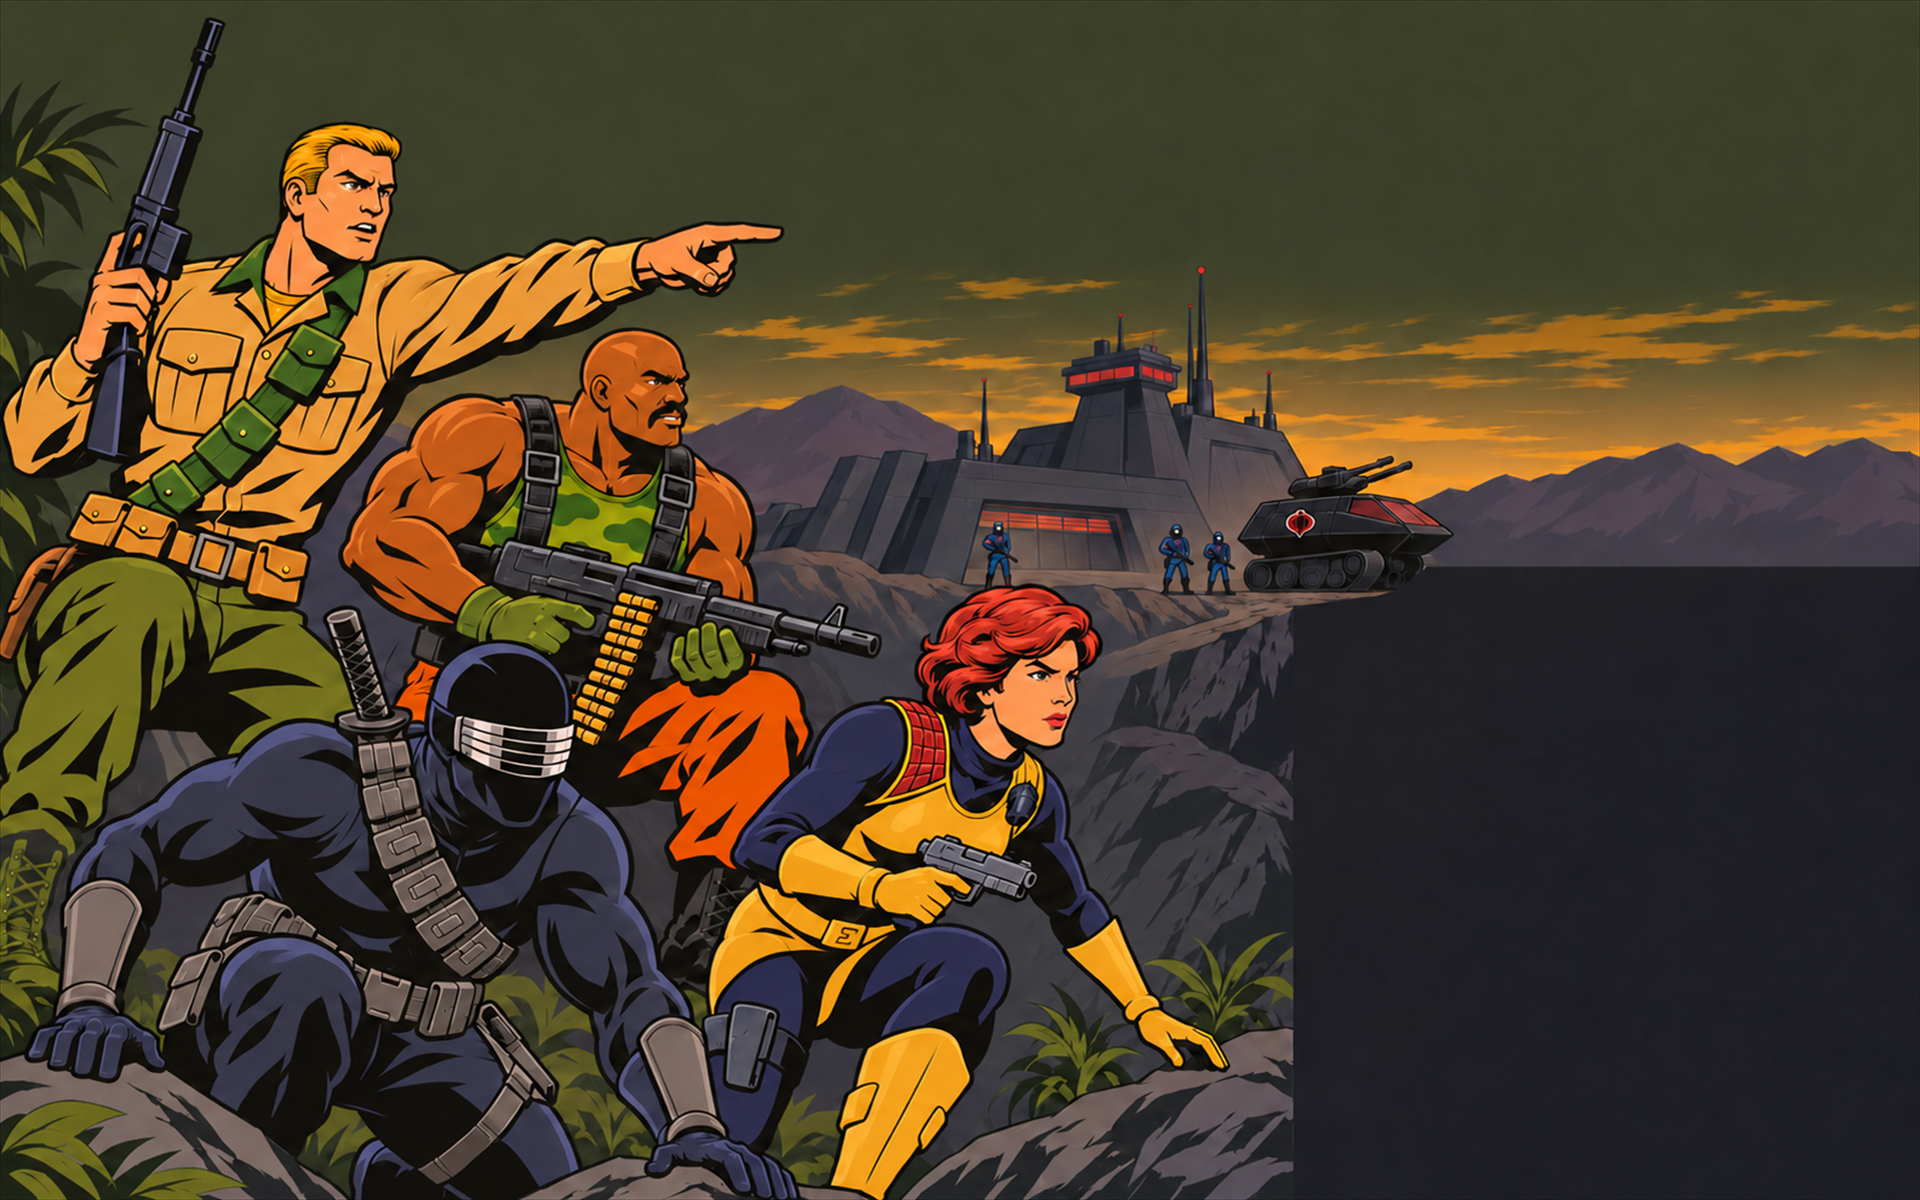
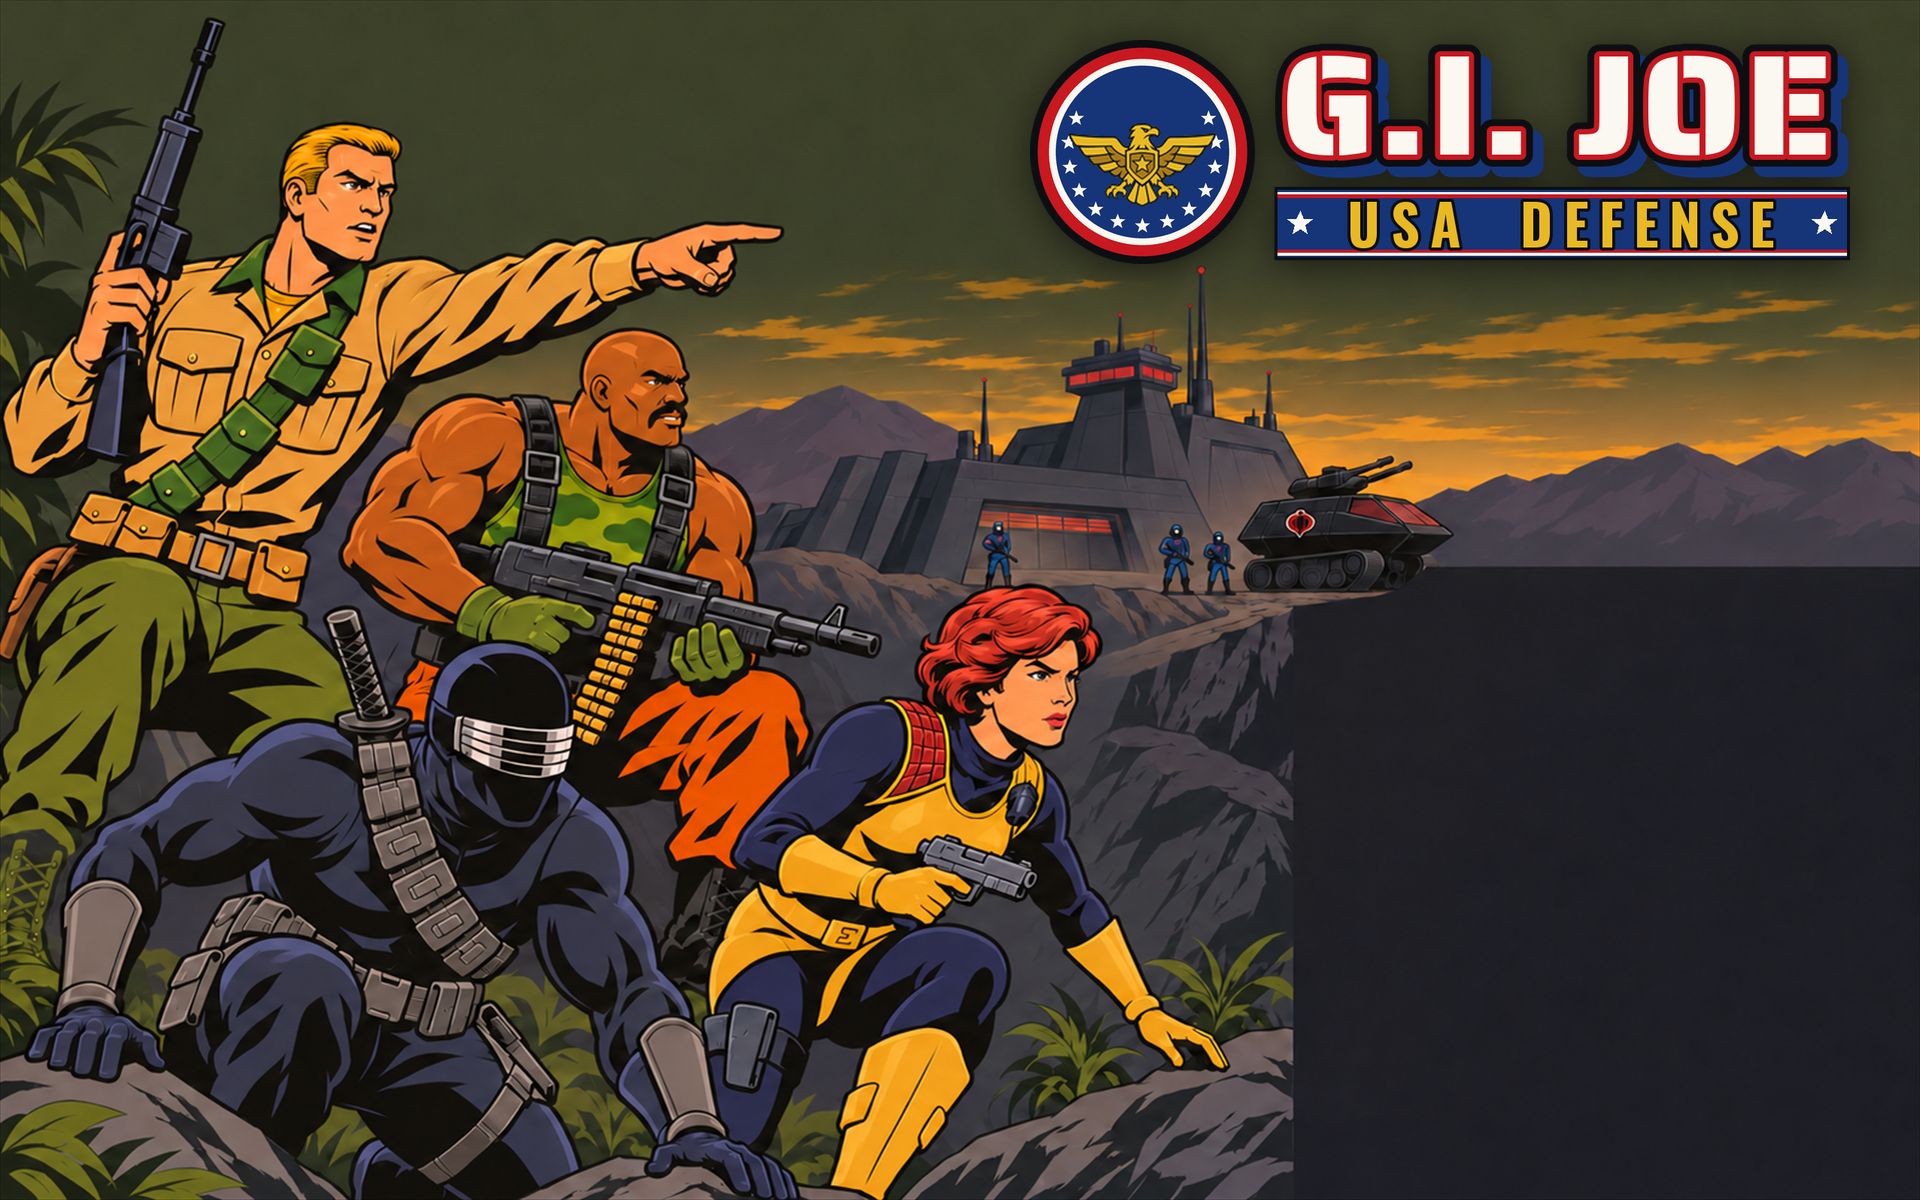
Title: G.I. Joe: USA Defense. Wordmark + eagle badge on the menu art, no OpenXcom anywhere on screen (window title, menu, loading, pause, error box, options strings); theme starts with the studio card
Claude-Session: https://claude.ai/code/session_014dExcDxPaqvFqz4pbppVVZ

Changed region(s): [[0.5312, 0.0308, 0.9688, 0.2158]]

diff --git a/tools/oxce-4x/build/make_title.py b/tools/oxce-4x/build/make_title.py
@@ -1,0 +1,157 @@
+#!/usr/bin/env python3
+"""The game's title on the menu key art: G.I. JOE / USA DEFENSE with the eagle badge.
+
+    python3 build/make_title.py
+
+Reads mod/Resources/FrontEnd/title_base_hi.png (the key art with no title; made from
+title_hi.png the first time this runs), the eagle from art_briefs/returned/ui_remaining,
+and the two fonts in fonts/. Writes title_hi.png (the full-colour art the menu draws)
+and title.png (its 8-bit twin), and title_word.png (the wordmark alone, for other screens).
+John, 13 Nov 2026: the game is "G.I. Joe: USA Defense"; a cleaner, more awesome title,
+with the G.I. Joe badging.
+"""
+import os
+import sys
+import numpy as np
+from PIL import Image, ImageDraw, ImageFont, ImageFilter
+
+HERE = os.path.dirname(os.path.abspath(__file__))
+ROOT = os.path.normpath(os.path.join(HERE, '..'))
+FE = os.path.join(ROOT, 'mod', 'Resources', 'FrontEnd')
+STENCIL = os.path.join(ROOT, 'fonts', 'SairaStencilOne-Regular.ttf')
+OSWALD = os.path.join(ROOT, 'fonts', 'Oswald[wght].ttf')
+EAGLE = os.path.join(ROOT, 'art_briefs', 'returned', 'ui_remaining', '07_battle_buttons', 'icon_special.png')
+
+RED, BLUE, WHITE, GOLD, INK = (200, 24, 32), (22, 52, 120), (250, 248, 240), (232, 185, 35), (12, 14, 18)
+
+
+def text_layer(size, text, font, fill, stroke, stroke_fill, spacing=0):
+    img = Image.new('RGBA', size, (0, 0, 0, 0))
+    d = ImageDraw.Draw(img)
+    x = 0
+    for ch in text:
+        d.text((x + stroke, stroke), ch, font=font, fill=fill, stroke_width=stroke, stroke_fill=stroke_fill)
+        x += font.getlength(ch) + spacing
+    return img.crop(img.getbbox())
+
+
+def eagle_badge(h):
+    """The eagle cut off its olive button face, set on a navy roundel with a red and white rim."""
+    e = Image.open(EAGLE).convert('RGB')
+    a = np.asarray(e).astype(int)
+    bg = np.array([74, 86, 64])
+    dist = np.abs(a - bg).sum(axis=2)
+    alpha = np.clip((dist - 30) * 6, 0, 255).astype(np.uint8)
+    eagle = Image.fromarray(np.dstack([a.astype(np.uint8), alpha]), 'RGBA')
+    eagle = eagle.crop(eagle.getbbox())
+    s = h * 4  # draw large, then shrink, for clean edges
+    b = Image.new('RGBA', (s, s), (0, 0, 0, 0))
+    d = ImageDraw.Draw(b)
+    d.ellipse((0, 0, s - 1, s - 1), fill=INK)
+    r = s * 0.035
+    d.ellipse((r, r, s - r, s - r), fill=RED)
+    r2 = s * 0.085
+    d.ellipse((r2, r2, s - r2, s - r2), fill=WHITE)
+    r3 = s * 0.115
+    d.ellipse((r3, r3, s - r3, s - r3), fill=BLUE)
+    # stars round the rim of the blue
+    import math
+    for i in range(13):
+        ang = math.pi * (0.85 + 1.3 * i / 12)
+        cx = s / 2 + math.cos(ang) * s * 0.33
+        cy = s / 2 - math.sin(ang) * s * 0.33
+        star(d, cx, cy, s * 0.035, WHITE)
+    ew = int(s * 0.66)
+    eh = int(eagle.height * ew / eagle.width)
+    eg = eagle.resize((ew, eh), Image.LANCZOS)
+    b.alpha_composite(eg, ((s - ew) // 2, int(s * 0.56 - eh / 2)))
+    return b.resize((h, h), Image.LANCZOS)
+
+
+def star(d, cx, cy, r, fill):
+    import math
+    pts = []
+    for i in range(10):
+        rr = r if i % 2 == 0 else r * 0.42
+        ang = math.pi / 2 + i * math.pi / 5
+        pts.append((cx + math.cos(ang) * rr, cy - math.sin(ang) * rr))
+    d.polygon(pts, fill=fill)
+
+
+def wordmark():
+    big = ImageFont.truetype(STENCIL, 190)
+    sub = ImageFont.truetype(OSWALD, 74)
+    try:
+        sub.set_variation_by_axes([700])
+    except Exception:
+        pass
+    # G.I. JOE: white, red keyline, black outer line, and a navy drop
+    core = text_layer((1400, 300), 'G.I. JOE', big, WHITE, 7, RED, spacing=6)
+    outer = text_layer((1400, 320), 'G.I. JOE', big, INK, 16, INK, spacing=6)
+    jw, jh = outer.size
+    joe = Image.new('RGBA', (jw + 16, jh + 16), (0, 0, 0, 0))
+    shadow = Image.new('RGBA', outer.size, BLUE + (255,))
+    shadow.putalpha(outer.getchannel('A'))
+    joe.alpha_composite(shadow, (14, 14))
+    joe.alpha_composite(outer, (0, 0))
+    joe.alpha_composite(core, ((jw - core.width) // 2, (jh - core.height) // 2))
+
+    # USA DEFENSE: gold, letter-spaced, on a red-white-blue stripe bar with stars
+    words = text_layer((1400, 160), 'USA  DEFENSE', sub, GOLD, 4, INK, spacing=14)
+    bar_w = joe.width
+    bar_h = words.height + 28
+    bar = Image.new('RGBA', (bar_w, bar_h), (0, 0, 0, 0))
+    d = ImageDraw.Draw(bar)
+    d.rectangle((0, 0, bar_w - 1, bar_h - 1), fill=INK)
+    d.rectangle((4, 4, bar_w - 5, bar_h - 5), fill=BLUE)
+    d.rectangle((4, bar_h - 14, bar_w - 5, bar_h - 10), fill=RED)
+    d.rectangle((4, bar_h - 10, bar_w - 5, bar_h - 7), fill=WHITE)
+    d.rectangle((4, 7, bar_w - 5, 10), fill=WHITE)
+    d.rectangle((4, 10, bar_w - 5, 14), fill=RED)
+    for x in (34, bar_w - 34):
+        star(d, x, bar_h / 2, 17, WHITE)
+    bar.alpha_composite(words, ((bar_w - words.width) // 2, (bar_h - words.height) // 2 + 2))
+
+    gap = 10
+    text = Image.new('RGBA', (joe.width, joe.height + gap + bar.height), (0, 0, 0, 0))
+    text.alpha_composite(joe, (0, 0))
+    text.alpha_composite(bar, (0, joe.height + gap))
+
+    badge = eagle_badge(text.height + 10)
+    out = Image.new('RGBA', (badge.width + 26 + text.width, max(badge.height, text.height)), (0, 0, 0, 0))
+    out.alpha_composite(badge, (0, (out.height - badge.height) // 2))
+    out.alpha_composite(text, (badge.width + 26, (out.height - text.height) // 2))
+    return out
+
+
+def main():
+    base = os.path.join(FE, 'title_base_hi.png')
+    if not os.path.exists(base):
+        Image.open(os.path.join(FE, 'title_hi.png')).convert('RGB').save(base)
+    art = Image.open(base).convert('RGBA')
+    wm = wordmark()
+    wm.save(os.path.join(FE, 'title_word.png'))
+    # the open sky at the top right of the key art
+    w = 820
+    h = int(wm.height * w / wm.width)
+    wm_s = wm.resize((w, h), Image.LANCZOS)
+    # a soft dark glow behind it; padded so the blur is not clipped into a visible box
+    pad = 60
+    mask = Image.new('L', (w + 2 * pad, h + 2 * pad), 0)
+    mask.paste(wm_s.getchannel('A'), (pad, pad))
+    glow = mask.filter(ImageFilter.GaussianBlur(18)).point(lambda v: int(v * 0.55))
+    halo = Image.new('RGBA', mask.size, (0, 0, 0, 0))
+    halo.putalpha(glow)
+    x, y = 1920 - w - 70, 40
+    art.alpha_composite(halo, (x - pad, y - pad + 6))
+    art.alpha_composite(wm_s, (x, y))
+    art = art.convert('RGB')
+    art.save(os.path.join(FE, 'title_hi.png'))
+    sys.path.insert(0, HERE)
+    import install_screen_backgrounds as isb
+    isb.to_8bit(art).save(os.path.join(FE, 'title.png'))
+    print('title written', wm.size, '->', (w, h), 'at', (x, y))
+
+
+if __name__ == '__main__':
+    main()
